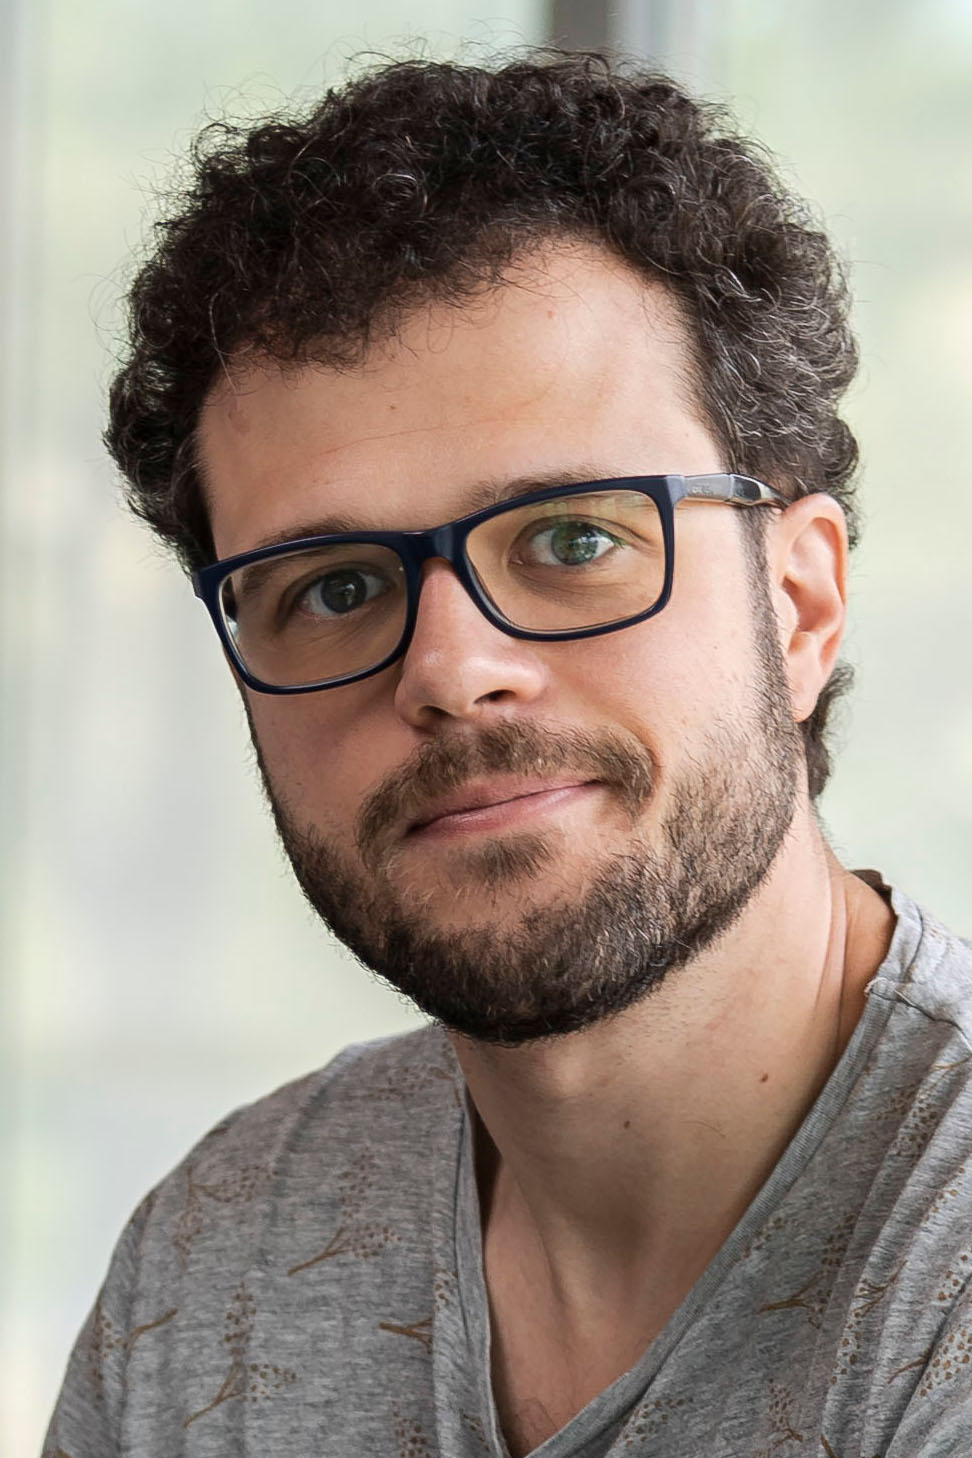
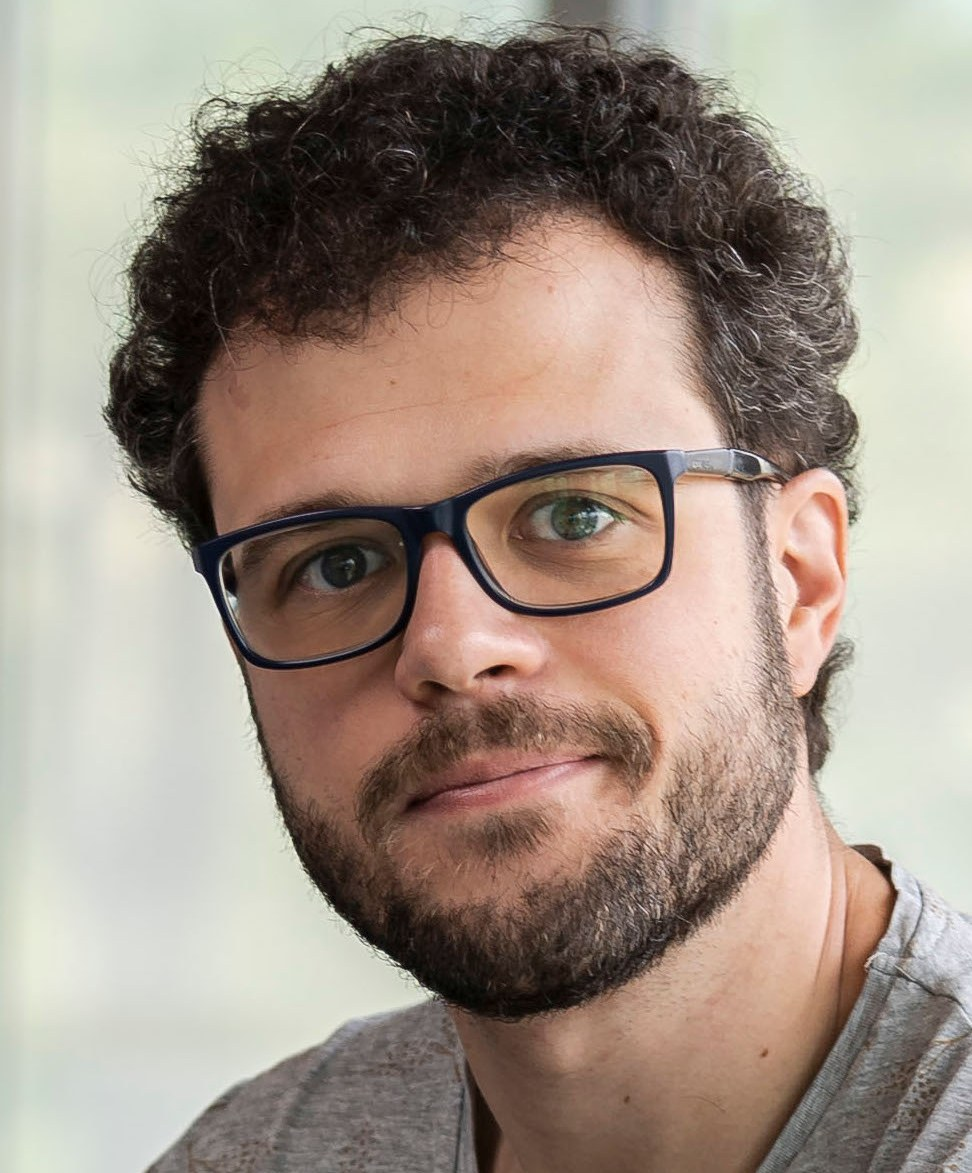
Website update (CfP, Dates, Challenge description, profile pictures)

diff --git a/docs/index.html b/docs/index.html
@@ -207,15 +207,15 @@
       <li class="nav-item">
         <a class="nav-link active" data-toggle="tab" href="#home">Home</a>
       </li>
-      <!-- <li class="nav-item">
+      <li class="nav-item">
         <a class="nav-link" data-toggle="tab" href="#cfp">CfP</a>
-      </li> -->
-      <!-- <li class="nav-item">
+      </li>
+      <li class="nav-item">
         <a class="nav-link" data-toggle="tab" href="#challenge">Challenges</a>
-      </li> -->
-      <!-- <li class="nav-item">
+      </li> 
+      <li class="nav-item">
         <a class="nav-link" data-toggle="tab" href="#dates">Dates</a>
-      </li> -->
+      </li>
       <li class="nav-item">
         <a class="nav-link" data-toggle="tab" href="#committees">Committees</a>
       </li>
@@ -231,9 +231,9 @@
 
       <div class="tab-pane fade active show" id="home">
 
-        <div class="alert alert-info" role="alert">
+        <!--<div class="alert alert-info" role="alert">
           Welcome to the new home of the MULTI workshop series. Stay tuned for updates and details about our 2024 edition.
-        </div>
+        </div>-->
 
         <p>
           The MULTI workshop series is the premier venue for researchers and practitioners working on multi-level modeling and multi-level software development. Multi-level modeling represents a new object-oriented paradigm for both conceptual modelling and software engineering. In contrast to conventional two-level approaches, it supports an unbounded number of classification levels and introduces concepts and mechanisms that foster reuse, adaptability, and control. While multi-level languages and tools have reached considerable maturity, the field still offers numerous challenges.
@@ -248,7 +248,80 @@
 
       </div>
 
+<!-- -------------------------------------------------------------------------------------------------------------------- -->
+	  
+	  
+<div class="tab-pane fade" id="cfp">
+    <h2>Call for Papers</h2>
+	
+	<p>MULTI 2024, to be held in conjunction with <a href="https://conf.researchr.org/series/models">MODELS'24</a>, Linz, Austria, will be the 11th workshop focusing on multi-level modeling. The MULTI workshop series is the premier venue for researchers and practitioners working on multi-level modeling and multi-level software development. Multi-level modeling represents a new object-oriented paradigm for both conceptual modeling and software engineering. In contrast to conventional two-level approaches, it supports an unbounded number of classification levels and introduces concepts and mechanisms that foster reuse, adaptability, and control. While multi-level languages and tools have reached considerable maturity, the field still offers numerous challenges.
+	</p>
+    <p> MULTI 2024 solicits four kinds of papers: 
+	    <ul>
+		    <li>regular papers (10 pages).</li>
+		    <li><a href="https://multi-workshop.github.io/#challenge">challenge</a> submissions (10 pages).</li>
+		    <li>position papers (5 pages).</li>
+		    <li>industrial abstracts (2 pages).</li>
+		
+	  </ul>
+   </p>
 
+  <p>Topics for regular and position papers include, but are not limited to:</p> 
+  <ul>
+   <li> the nature of elements in a multi-level hierarchy</li>
+ <li> the importance and role of deep characterization mechanisms </li>
+ <li> fundamental aspects of MLM, such as model composition and decomposition </li>
+ <li> formal approaches to MLM </li>
+ <li> integration of modeling and programming languages in a multi-level setting </li>
+ <li> constraints in a multi-level setting </li>
+ <li> definition of behavioral semantics in a multi-level setting </li>
+ <li> industrial case studies </li>
+ <li> applying MLM to large and/or real-world problems </li>
+ <li> criteria and approaches for comparing MLM approaches </li>
+   </ul>
+   
+   <p>Accepted papers except industrial abstracts will be included in the <a href="https://conf.researchr.org/series/models"> MODELS 2024</a> companion published by the ACM. Industrial abstracts will be published here (on the MULTI 2024 workshop website). </p>
+
+  <p>Authors need to submit their papers as PDF files <a href="https://easychair.org/conferences/?conf=multi2024">via EasyChair</a>. 
+  The papers should follow the same formatting instructions used for the main track, available at <a href="https://www.acm.org/publications/proceedings-template">https://www.acm.org/publications/proceedings-template</a> for both LaTeX and Word users. LaTeX users must use the provided acmart.cls and ACM-Reference-Format.bst without modification, enable the conference format in the preamble of the document (i.e., \documentclass[sigconf,review]{acmart}), and use the ACM reference format for the bibliography (i.e., \bibliographystyle{ACM-Reference-Format}). The review option adds line numbers, thereby allowing referees to refer to specific lines in their comments.
+  </p>
+  
+  <p>Please note: </p>
+  <p>
+  By submitting to MULTI2024, authors acknowledge that they are aware of and agree to be bound by the ACM Policy and Procedures on Plagiarism. In particular, papers submitted to MULTI2024 must not have been published elsewhere and must not be under review or submitted for review elsewhere while under consideration for MULTI2024.
+  </p><p>
+  By submitting your article to an ACM Publication, you are hereby acknowledging that you and your co-authors are subject to all ACM Publications Policies, including ACM's new Publications Policy on Research Involving Human Participants and Subjects. Alleged violations of this policy or any ACM Publications Policy will be investigated by ACM and may result in a full retraction of your paper, in addition to other potential penalties, as per ACM Publications Policy.
+  </p>
+  <!--Please ensure that you and your co-authors obtain an ORCID ID, so you can complete the publishing process for your accepted paper. ACM has been involved in ORCID from the start and we have recently made a commitment to collect ORCID IDs from all of our published authors. The collection process has started and will roll out as a requirement throughout 2022. We are committed to improve author discoverability, ensure proper attribution and contribute to ongoing community efforts around name normalization; your ORCID ID will help in these efforts.-->
+  
+  
+  
+  
+  
+  
+  
+  
+  
+  
+  
+  
+  
+  
+  </div>
+	  
+<!-- -------------------------------------------------------------------------------------------------------------------- -->
+	  
+	  
+  <div class="tab-pane fade" id="dates">
+  <h2>Important Dates</h2>  
+  <table>
+    <tr> <td>Paper Submission:<td> <td style="text-align: right">5 &nbsp;</td> <td> July </td><td> 2024</td></tr>
+    <tr> <td>Authors Notification:<td> <td style="text-align: right">9 &nbsp;</td> <td> August </td><td> 2024</td></tr>
+    <tr> <td>Camera-ready Papers:&nbsp;&nbsp;<td> <td style="text-align: right">14 &nbsp;</td><td> August</td><td> 2024</td></tr>
+    <tr><td> Workshop:<td> <td style="text-align: right">22-24 &nbsp;</td> <td>September &nbsp; </td><td>2024</td></tr>
+  </table>  
+  <br><br><br><br><br><br><br><br><br><br><br><br><br><br><br><br><br><br><br><br><br><br><br><br><br><br><br><br><br><br>
+  </div>
       <!-- ------------------------------------------------------------------------------------ -->
 
 
@@ -322,6 +395,101 @@
         </ul>
         <br><br>
       </div>
+	  
+	  	  
+<!-- -------------------------------------------------------------------------------------------------------------------- -->
+	  
+	  
+<div class="tab-pane fade" id="challenge">
+<h2>Challenges</h2>
+
+<p> Multi-level modeling challenges are designed as benchmark modeling scenarios that aim to support objective comparisons
+	between multi-level modeling approaches, allow technologies to demonstrate their abilities, stress-test technologies in order to expose potential weaknesses, and deepen the mutual understanding of approaches.
+</p>
+	  
+<!--
+  <p>Multi-level modeling addresses the modeling of subject domains that benefit from an explicit recognition of multiple 
+	  levels of domain representation, such as software development, process modeling, capturing organizational roles,
+	  biological taxonomies, product hierarchies, and so on. Over the span of two decades many approaches for multi-level
+	  modeling have been proposed, all sharing the goal of extending traditional two-level approaches with constructs and 
+	  concepts that naturally support multiple levels of domain representation, with the goal to increase model expressiveness while
+	  simultaneously reducing model complexity.</p>
+
+<p>Numerous advances in multi-level modeling approaches and tools have, however, lead to a proliferation of available 
+	approaches, thus displaying a lack of consensus on what kinds of constructs and concepts provide the best support
+	for multi-level modeling. In part, differences are owed to different application targets or different prioritizations
+	of desirable model properties, yet not all existing differences can necessarily be motivated in this manner.
+	Some differences at both foundational and realization levels may be perfectly justifiable while others may be
+	reconcilable without diminishing effects.</p>
+-->
+	  
+<h3>Warehouse Challenge</h3>	  
+<p>  The "Warehouse" challenge references a domain featuring representations of product copies, product specifications and product specification types. 
+	 A particular emphasis is on how to guarantee certain properties at the product level without fully determining them, in other words, to support flexible but constrained variability.
+</p>
+ <p>
+	The submission requirements for the Warehous Challenge and the domain example to use are available from
+	the <a href="files/MULTI%20Warehouse%20Challenge.pdf">MULTI Warehouse Challenge Description</a>. In particular note that submitted solutions must have the subtitle
+	"A contribution to the MULTI Warehouse challenge".
+</p>
+ <p>
+	If you would like to receive any kind of clarification regarding the challenge requirements, please contact the challenge authors who will be more than happy to answer any questions.
+</p>		  
+	
+<h3>Collaborative Comparison Challenge</h3>
+<p>The Collaborative Comparison challenge aims at improving the mutual understanding of approaches within the multi-level modeling community
+	by encouraging collaborations which are an opportunity to justify and thus clarify the need for existing differences,
+	or, alternatively, lead towards homogenizing multi-level modeling.
+</p>
+
+<p>Towards this end, the Collaborative Comparison Challenge specifically
+	requires the application of two or more approaches to a prescribed domain example and mandates the discussion of commonalities and
+	differences between the approaches in a joint paper authored by proponents of different multi-level modeling approaches.
+</p>
+
+<p>Commonalities and differences should be discussed as they manifest themselves in the conceptualization of the domain example 
+	but also at a more general level. Respective discussion subjects which authors may choose to elaborate on 
+	include, but are not limited to, fundamental concepts such as the nature of levels, cross-level relationships, 
+	classification vs generalization, deep characterization, the treatment of attributes and operations, and the use
+	of structural and behavioral constraints.
+</p>
+
+<p> Discussions should seek to explore justifications for, and/or potential reconciliations of, fundamental differences 
+	rather than just documenting realization choices. An optional avenue towards contributing to the clarification of
+	differences is the formalization of foundational concepts, thereby possibly discovering open questions and/or 
+	potential for unification.</p>
+
+<p> The submission requirements for the Collaborative Comparison Challenge and the domain example to use are available from
+	the <a href="files/MULTI%20Collaborative%20Comparison%20Challenge.pdf">MULTI Comparison Challenge Description</a> [1]. 
+	In particular note that submitted solutions must have the subtitle
+	"A contribution to the MULTI Collaborative Comparison challenge".
+</p>
+	
+<br>	  
+	
+<h3>Previous Challenges</h3>	  
+<p>Solutions to the <a href="files/MULTI%20Process%20Challenge.pdf">MULTI Process Challenge</a> [2] are still welcome. Note that submitted solutions must have the subtitle
+	"A contribution to the MULTI Process challenge".</p> 
+	 
+  <h3>References</h3>
+	
+  <table style="margin-left: 0.5em;">
+  
+  <tr style="margin-bottom: 0.5em;"><td style="vertical-align: top;">[1]&nbsp;</td> 
+  <td><p style="margin-bottom: 0.5em;">G. Mezei, T. Kühne, V. Carvalho and B. Neumayr, "The MULTI Collaborative Comparison Challenge," 2021 ACM/IEEE International Conference on Model Driven Engineering Languages and Systems Companion (MODELS-C), Fukuoka, Japan, 2021, pp. 495-496, doi: 10.1109/MODELS-C53483.2021.00077.
+	  </p>
+  </td></tr>
+	  
+  <tr><td>  
+  
+  <tr><td style="vertical-align: top;">[2]&nbsp;</td> 
+  <td>J. P. A. Almeida, A. Rutle, M. Wimmer and T. Kühne, "The MULTI Process Challenge," 2019 ACM/IEEE 22nd International Conference on Model Driven Engineering Languages and Systems Companion (MODELS-C), Munich, Germany, 2019, pp. 164-167, doi: 10.1109/MODELS-C.2019.00027.
+  </td></tr>
+  </table>	  
+	  
+<br><br>	  
+</div>
+	  
 
       <!-- ------------------------------------------------------------------------------------------ -->
 
